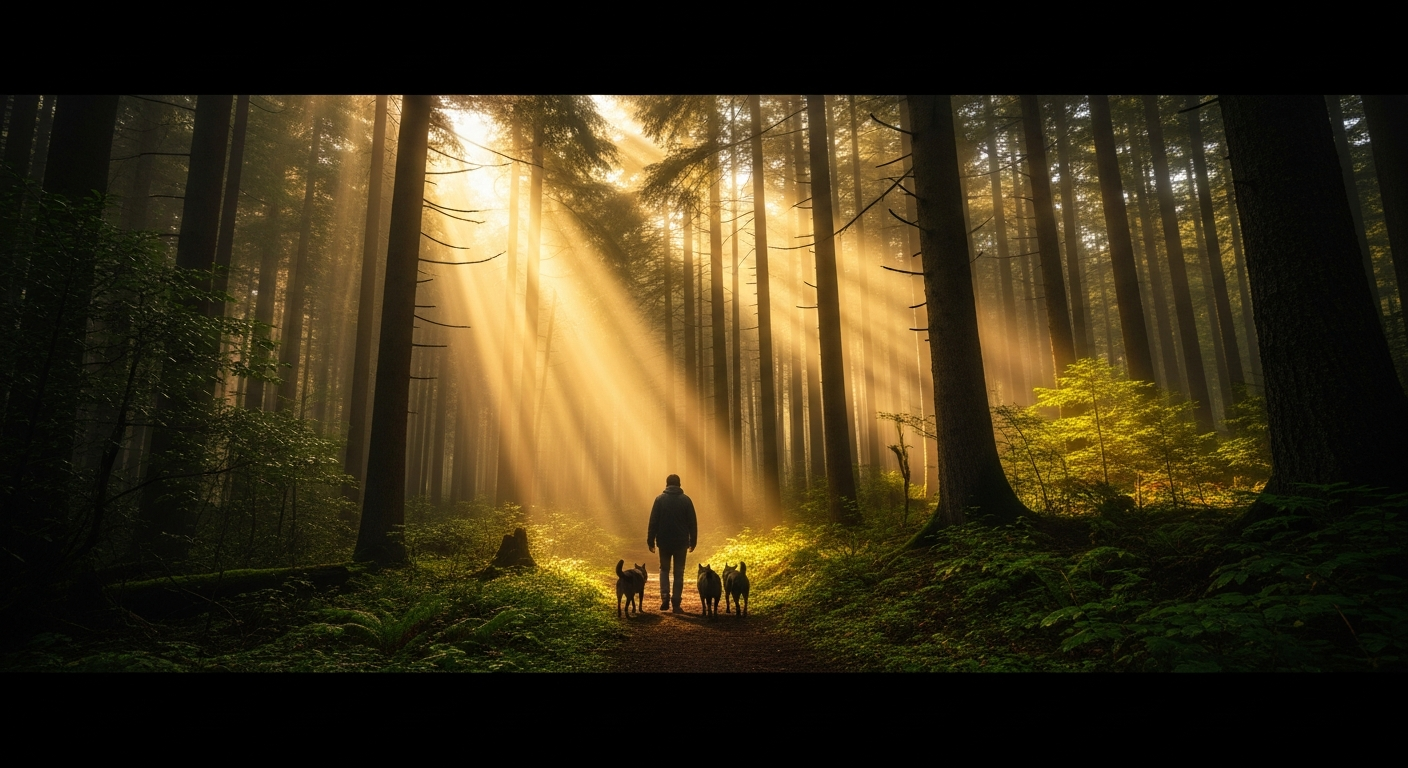
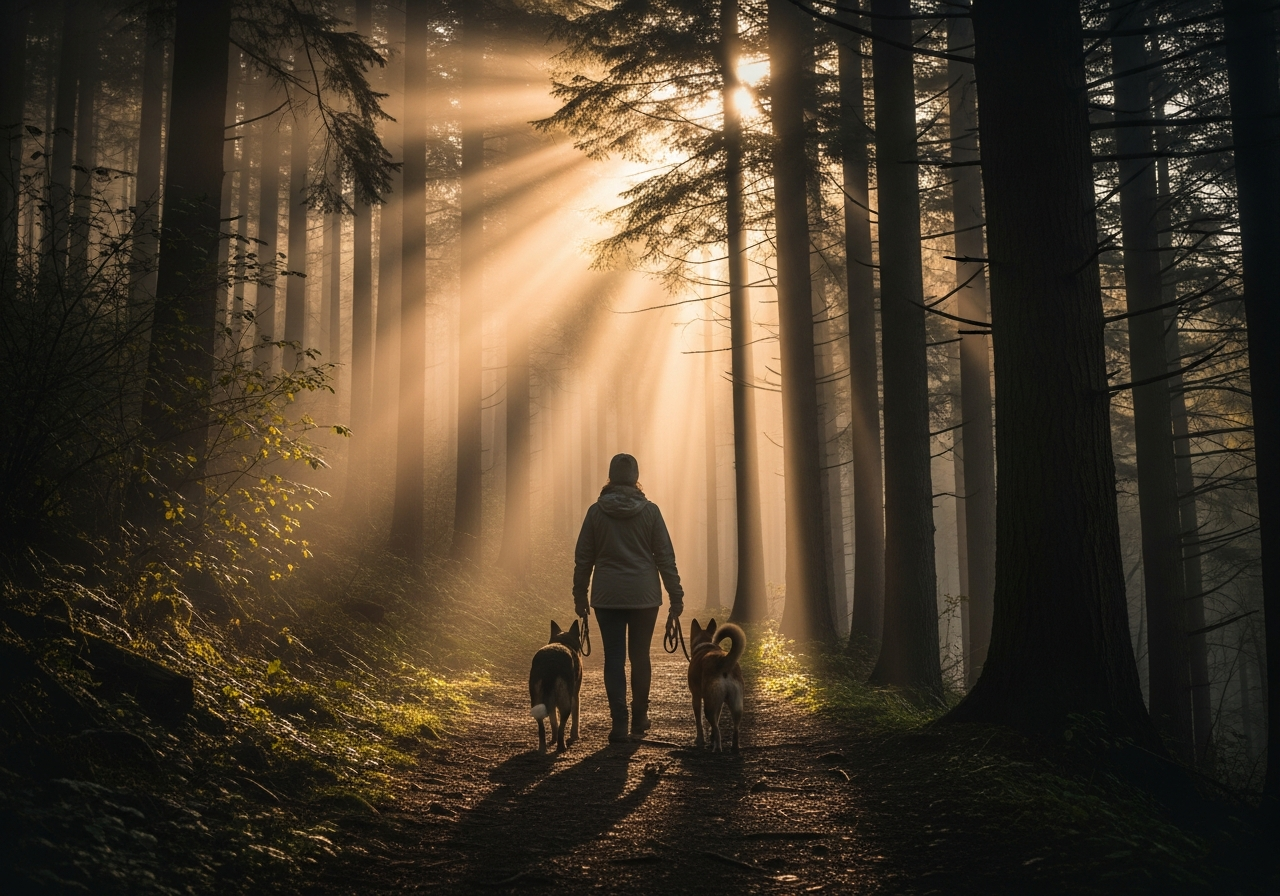
Adjust image framing to better showcase subjects
Update image metadata and component to use a more tightly framed 4:3 aspect ratio image with `object-center` positioning, resolving previous framing issues.

Replit-Commit-Author: Agent
Replit-Commit-Session-Id: ff81f4f6-90e6-4dee-906e-32a49b9d4cbf
Replit-Commit-Checkpoint-Type: full_checkpoint
Replit-Commit-Event-Id: 6ac91303-096b-43ee-84ba-cf48e9fca5d0
Replit-Commit-Screenshot-Url: https://storage.googleapis.com/screenshot-production-us-central1/379eabec-1527-4de0-99b0-f3d40f5cfdad/ff81f4f6-90e6-4dee-906e-32a49b9d4cbf/VWLH19K

diff --git a/client/src/pages/CompanionNutritionHub.tsx b/client/src/pages/CompanionNutritionHub.tsx
@@ -230,7 +230,7 @@ export default function CompanionNutritionHub() {
 
         {/* Hero */}
         <div className="relative h-52 rounded-2xl overflow-hidden mb-3">
-          <img src={COMPANION_HERO} alt="My Perfect Pets" className="w-full h-full object-cover object-bottom scale-[2] origin-bottom" />
+          <img src={COMPANION_HERO} alt="My Perfect Pets" className="w-full h-full object-cover object-center" />
         </div>
 
         {/* Quick Actions */}
